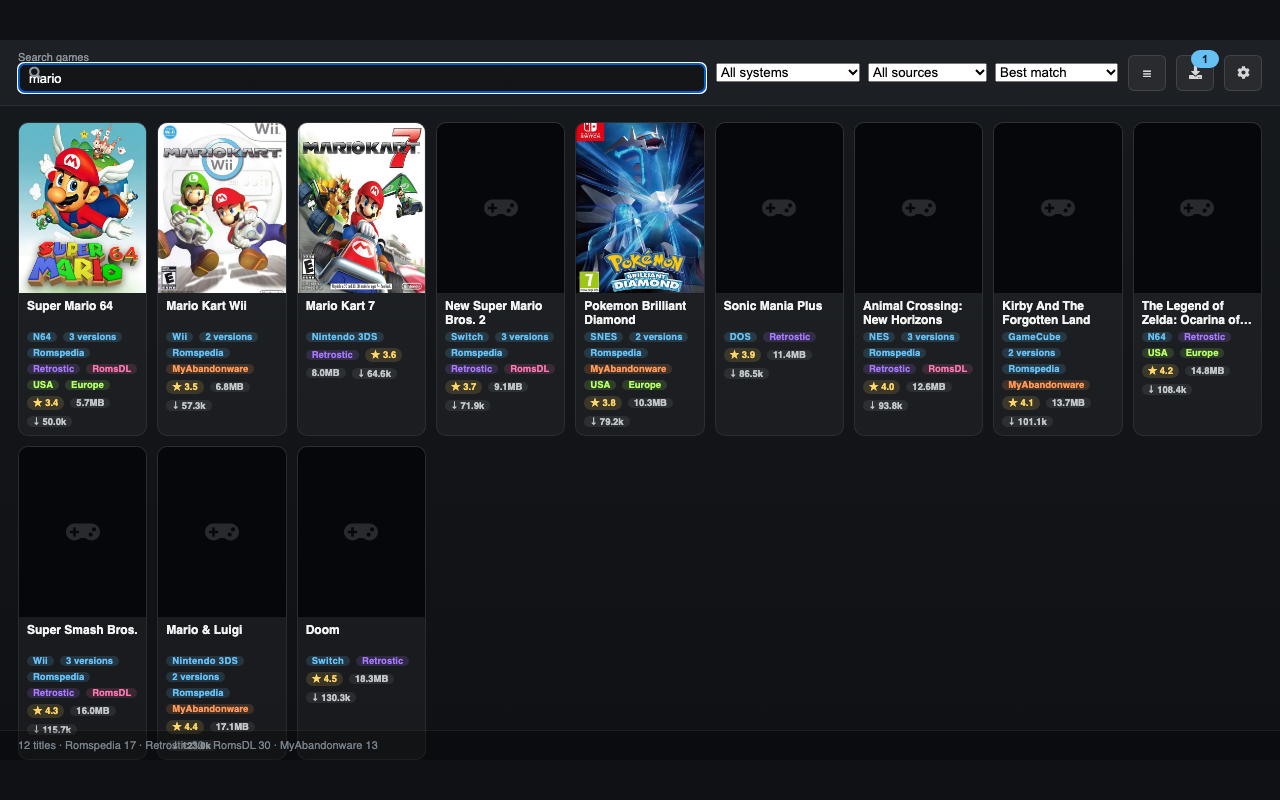
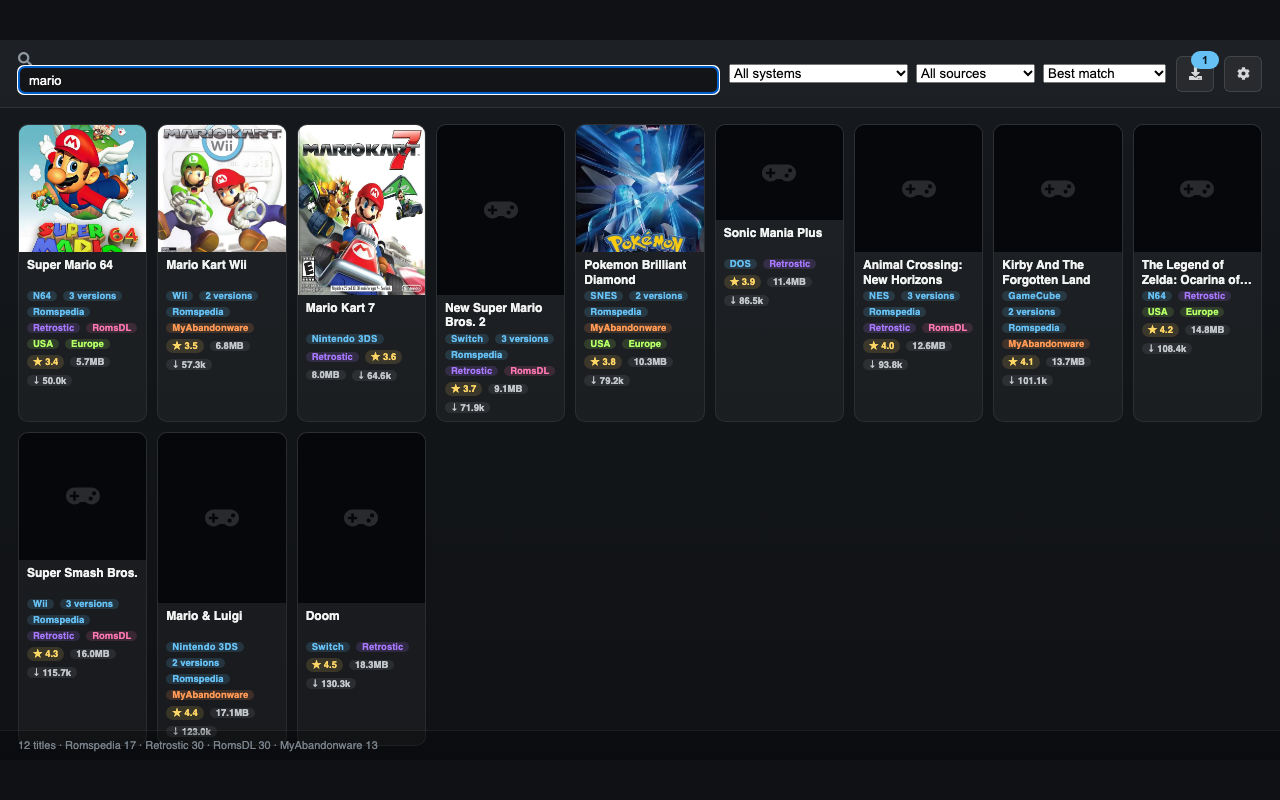
Cleaner search field, console dropdown replaces the browse modal, per console cover shapes, strict console filter

diff --git a/src/components/Store.tsx b/src/components/Store.tsx
@@ -52,7 +52,6 @@ const Store: FC = () => {
   const [selected, setSelected] = useState<MergedRom | null>(null);
   const [showDownloads, setShowDownloads] = useState(false);
   const [showSettings, setShowSettings] = useState(false);
-  const [showBrowse, setShowBrowse] = useState(false);
   const [page, setPage] = useState(1);
   const [hasMore, setHasMore] = useState(false);
   const [searched, setSearched] = useState(false);
@@ -124,7 +123,11 @@ const Store: FC = () => {
           );
         }
         if (id !== requestId.current) return;
-        setResults((previous) => (append ? [...previous, ...(payload.results ?? [])] : payload.results ?? []));
+        const incoming = payload.results ?? [];
+        // Safety net: never mix consoles, even if a source ignores the filter.
+        const filtered =
+          systemFilter !== "all" ? incoming.filter((rom) => rom.system === systemFilter) : incoming;
+        setResults((previous) => (append ? [...previous, ...filtered] : filtered));
         setSources(payload.sources ?? []);
         setSystems(payload.systems ?? []);
         setSourceCounts(payload.source_counts ?? {});
@@ -180,16 +183,6 @@ const Store: FC = () => {
     runSearch(query, system, source, sort, page + 1, true);
   };
 
-  const browse = (target: string) => {
-    setShowBrowse(false);
-    setQuery("");
-    setSystem(target);
-    setPage(1);
-    requestId.current += 1;
-    setResults([]);
-    runSearch("", target, "all", sort, 1, false);
-  };
-
   const activeDownloads = useMemo(
     () => jobs.filter((job) => job.status === "downloading" || job.status === "queued" || job.status === "extracting").length,
     [jobs],
@@ -200,7 +193,8 @@ const Store: FC = () => {
     return list.length ? list : sources;
   }, [sources]);
 
-  const browseSystems = useMemo(() => {
+  // Every console we know about, most games first.
+  const consoleOptions = useMemo(() => {
     const keys = new Set<string>(Object.keys(systemCounts));
     systems.forEach((key) => keys.add(key));
     return Array.from(keys).sort((a, b) => (systemCounts[b] ?? 0) - (systemCounts[a] ?? 0));
@@ -211,11 +205,9 @@ const Store: FC = () => {
       <StoreStyles />
       <div className="rs-header">
         <div className="rs-search-wrap">
-          <span className="rs-search-icon">
-            <FaSearch />
-          </span>
+          <FaSearch className="rs-search-icon" />
           <TextField
-            label="Search games"
+            label=""
             value={query}
             placeholder="Games, consoles or regions…"
             onChange={(event) => setQuery(event.target.value)}
@@ -226,7 +218,7 @@ const Store: FC = () => {
           <Dropdown
             rgOptions={[
               { label: "All systems", data: "all" },
-              ...systems.map((key) => ({
+              ...consoleOptions.map((key) => ({
                 label: `${systemLabel(key)}${systemCounts[key] ? ` (${systemCounts[key]})` : ""}`,
                 data: key,
               })),
@@ -255,9 +247,6 @@ const Store: FC = () => {
           />
         </div>
 
-        <button className="rs-icon-btn" onClick={() => setShowBrowse(true)} title="Browse by console">
-          ☰
-        </button>
         <button
           className={`rs-icon-btn${showDownloads ? " active" : ""}`}
           onClick={() => setShowDownloads(true)}
@@ -299,9 +288,6 @@ const Store: FC = () => {
               Type a game title to search Romspedia, DumbRoms and MyAbandonware at once. Duplicate titles are
               merged, and every download lands in the matching EmuDecky ROM folder.
             </p>
-            <button className="rs-btn" onClick={() => setShowBrowse(true)}>
-              Browse by console
-            </button>
           </div>
         ) : null}
 
@@ -348,32 +334,6 @@ const Store: FC = () => {
               <span>{message}</span>
             </div>
           ))}
-        </div>
-      )}
-
-      {showBrowse && (
-        <div className="rs-overlay" onClick={(event) => event.target === event.currentTarget && setShowBrowse(false)}>
-          <div className="rs-panel detail">
-            <div className="rs-panel-head">
-              <h3>Browse by console</h3>
-              <button className="rs-btn ghost" onClick={() => setShowBrowse(false)}>
-                Close
-              </button>
-            </div>
-            <div className="rs-panel-body">
-              <div className="rs-browse-grid">
-                {browseSystems.map((key) => (
-                  <button key={key} className="rs-browse-tile" onClick={() => browse(key)}>
-                    <span className="rs-browse-name">{systemLabel(key)}</span>
-                    <span className="rs-browse-count">{systemCounts[key] ?? "—"}</span>
-                  </button>
-                ))}
-              </div>
-              {!browseSystems.length && (
-                <div className="rs-hint">Console list unavailable — the source could not be reached.</div>
-              )}
-            </div>
-          </div>
         </div>
       )}
 

diff --git a/src/components/RomDetail.tsx b/src/components/RomDetail.tsx
@@ -9,7 +9,7 @@ import {
   RomFile,
 } from "../types";
 import { Dropdown } from "@decky/ui";
-import { formatBytes, formatCount, SOURCE_LABELS, systemLabel } from "./common";
+import { formatBytes, formatCount, systemLabel } from "./common";
 import CoverImage from "./CoverImage";
 
 interface Props {
@@ -17,10 +17,6 @@ interface Props {
   library: LibraryInfo | null;
   onClose: () => void;
   onStarted: () => void;
-}
-
-function sourceLabel(id: string): string {
-  return SOURCE_LABELS[id] || id;
 }
 
 const RomDetail: FC<Props> = ({ rom, library, onClose, onStarted }) => {
@@ -125,12 +121,7 @@ const RomDetail: FC<Props> = ({ rom, library, onClose, onStarted }) => {
             <div>
               <h2 className="rs-detail-title">{rom.title}</h2>
               <div className="rs-detail-meta">
-                <span className="rs-pill">{systemLabel(rom.system)}</span>
-                {rom.sources.map((source) => (
-                  <span key={source} className={`rs-pill ${source}`}>
-                    {sourceLabel(source)}
-                  </span>
-                ))}
+                <span className="rs-pill system">{systemLabel(rom.system)}</span>
                 {rom.regions.map((region) => (
                   <span key={region} className="rs-pill region">
                     {region}
@@ -161,13 +152,14 @@ const RomDetail: FC<Props> = ({ rom, library, onClose, onStarted }) => {
               {!loading && variants.length === 0 && <div className="rs-hint">No downloadable variants found.</div>}
 
               {!loading &&
-                variants.map((entry) => (
+                variants
+                  .filter((entry) => entry.files.length > 0 || entry.error)
+                  .map((entry) => (
                   <div key={entry.key} style={{ marginBottom: 14 }}>
-                    <div className="rs-meta" style={{ marginBottom: 6 }}>
-                      <span className={`rs-pill ${entry.source}`}>{sourceLabel(entry.source)}</span>
-                      {entry.error ? <span className="rs-pill region">{entry.error}</span> : null}
-                    </div>
-                    {entry.files.length === 0 && <div className="rs-hint">No files listed for this source.</div>}
+                    {entry.error ? <div className="rs-hint rs-error">{entry.error}</div> : null}
+                    {entry.files.length === 0 && !entry.error ? (
+                      <div className="rs-hint">No files listed for this source.</div>
+                    ) : null}
                     {entry.files.map((file) => (
                       <div className="rs-variant" key={file.id}>
                         <div className="rs-variant-main">

diff --git a/src/styles.ts b/src/styles.ts
@@ -37,8 +37,9 @@ export const CSS = `
 .rs-search-wrap input { height: 28px !important; padding-top: 2px !important; padding-bottom: 2px !important; font-size: 13px !important; }
 .rs-search-wrap input:focus { border-color: #66c0f4; }
 .rs-search-icon {
-  position: absolute; left: 11px; top: 50%; transform: translateY(-50%);
-  color: #8f98a0; pointer-events: none; font-size: 13px; display: flex;
+  flex: 0 0 auto;
+  color: #8f98a0; pointer-events: none; font-size: 14px; display: flex;
+  margin-right: 2px;
 }
 
 .rs-filters {
@@ -87,6 +88,7 @@ export const CSS = `
 }
 
 .rs-card {
+  min-width: 0;
   background: rgba(255, 255, 255, 0.04);
   border: 1px solid rgba(255, 255, 255, 0.07);
   border-radius: 10px;
@@ -345,10 +347,15 @@ export const CSS = `
 }
 .rs-browse-tile {
   display: flex; align-items: center; justify-content: space-between; gap: 10px;
-  padding: 12px 14px; border-radius: 8px; cursor: pointer;
+  padding: 10px 12px; border-radius: 8px; cursor: pointer;
   border: 1px solid rgba(255,255,255,0.1); background: rgba(255,255,255,0.04);
   color: #e6e8ea; font-size: 13px; text-align: left;
+  /* Without this the grid column grows to the longest label and we end up
+     with fewer tiles per row than intended. */
+  min-width: 0; overflow: hidden;
 }
+.rs-browse-name { overflow: hidden; text-overflow: ellipsis; white-space: nowrap; }
+.rs-browse-count { flex: 0 0 auto; }
 .rs-browse-tile:hover { border-color: rgba(102,192,244,0.6); background: rgba(255,255,255,0.08); }
 .rs-browse-name { font-weight: 600; }
 .rs-browse-count { color: #8f98a0; font-size: 12px; }

diff --git a/src/components/common.ts b/src/components/common.ts
@@ -106,3 +106,49 @@ export function formatSpeed(bytesPerSecond: number): string {
   if (!bytesPerSecond || bytesPerSecond <= 0) return "";
   return `${formatBytes(bytesPerSecond)}/s`;
 }
+
+
+/**
+ * Box art shape per console, so a grid of NES games does not look like a
+ * grid of Switch games.
+ */
+export const SYSTEM_ASPECTS: Record<string, string> = {
+  // handheld / portrait boxes
+  switch: "3 / 4",
+  "3ds": "3 / 4",
+  nds: "3 / 4",
+  gba: "3 / 4",
+  gbc: "3 / 4",
+  gb: "3 / 4",
+  psvita: "3 / 4",
+  psp: "4 / 3",
+  // square boxes
+  snes: "1 / 1",
+  nes: "1 / 1",
+  genesis: "1 / 1",
+  mastersystem: "1 / 1",
+  gamegear: "1 / 1",
+  n64: "1 / 1",
+  gc: "1 / 1",
+  psx: "1 / 1",
+  ps2: "1 / 1",
+  ps3: "1 / 1",
+  wii: "1 / 1",
+  wiiu: "1 / 1",
+  "3do": "1 / 1",
+  pcengine: "1 / 1",
+  dreamcast: "1 / 1",
+  saturn: "1 / 1",
+  sega32x: "1 / 1",
+  // landscape
+  arcades: "4 / 3",
+  mame: "4 / 3",
+  neogeo: "4 / 3",
+  dos: "4 / 3",
+  pc: "4 / 3",
+  scummvm: "4 / 3",
+};
+
+export function systemAspect(system: string): string {
+  return SYSTEM_ASPECTS[system] ?? "3 / 4";
+}

diff --git a/src/components/RomCard.tsx b/src/components/RomCard.tsx
@@ -2,7 +2,7 @@ import { CSSProperties, FC, memo } from "react";
 import { Focusable } from "@decky/ui";
 import { FaGamepad } from "react-icons/fa";
 import { MergedRom } from "../types";
-import { formatBytes, formatCount, SOURCE_LABELS, systemLabel } from "./common";
+import { formatBytes, formatCount, SOURCE_LABELS, systemAspect, systemLabel } from "./common";
 import CoverImage from "./CoverImage";
 
 interface Props {
@@ -27,7 +27,13 @@ const RomCard: FC<Props> = memo(({ rom, onOpen }) => {
       }}
       onClick={() => onOpen(rom)}
     >
-      <div className="rs-cover" style={rom.cover ? ({ ["--rs-cover" as string]: `url(${rom.cover})` } as CSSProperties) : undefined}>
+      <div
+        className="rs-cover"
+        style={{
+          aspectRatio: systemAspect(rom.system),
+          ...(rom.cover ? ({ ["--rs-cover" as string]: `url(${rom.cover})` } as CSSProperties) : {}),
+        }}
+      >
         {rom.cover ? (
           <CoverImage url={rom.cover} alt={rom.title} />
         ) : (

diff --git a/README.md b/README.md
@@ -15,7 +15,7 @@ drops the file you pick straight into the matching **EmuDecky** ROM folder
 | | |
 |---|---|
 | **Search** | One search box queries every enabled source in parallel and merges the hits. |
-| **Browse** | A console picker with live title counts (including Switch), plus *Load more* for deeper result pages. Counts are scraped once and cached on the Deck for a day. Browsing a console walks the catalogue pages, so Switch shows the whole library (~90 titles) instead of one page. |
+| **Browse** | The console dropdown lists every console with live title counts (including Switch) and switching to one browses that catalogue. Counts are scraped once and cached on the Deck for a day. Browsing a console walks the catalogue pages, so Switch shows the whole library (~90 titles) instead of one page. |
 | **Gamepad** | Cards are Steam-focusable — the A button opens a game, the shoulder buttons page through results. |
 | **Artwork** | Cover art is fetched by the backend, cached on the Deck and served locally, so nothing is re-downloaded and the Steam client never has to reach out to a third party. Every card uses the same poster frame with a blurred backdrop, so mixed artwork from different sites still looks uniform. Optionally, add free IGDB credentials in the settings to replace missing artwork with clean, high quality poster art. |
 | **De-duplicate** | Titles are normalised (region tags, serial noise and punctuation are stripped) so the same game from two sites becomes one card with a `2×` badge. |
